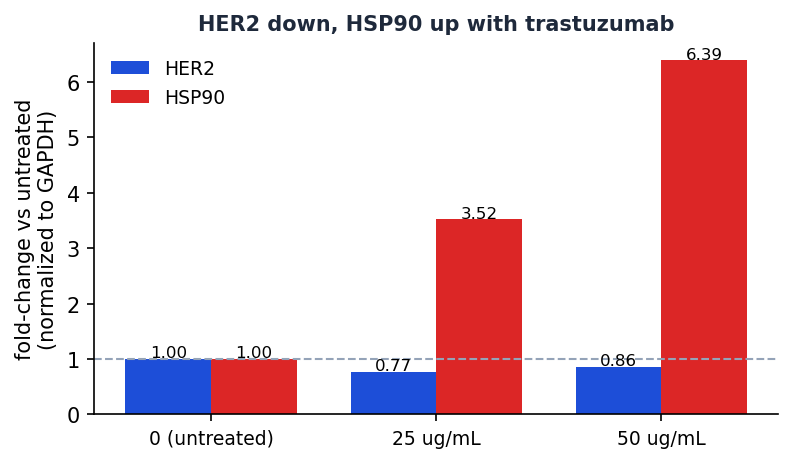
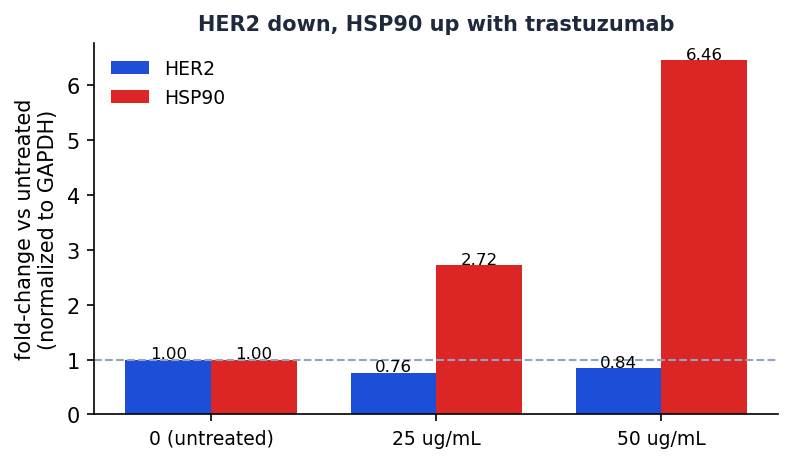
fix(western): align densitometry ROIs to bands
Band detection was placing fixed boxes at grid centers, so ROIs drifted
off the bands (visible misalignment). Rewrite: recenter each lane on its
band mass, then center a consistent-size ROI on each band's intensity
centroid within a search window (background from the window border). Boxes
now frame the actual bands across all lanes. Numbers unchanged in
substance (HER2 down ~0.84x, HSP90 up to ~6.5x at 50 ug/mL, n=1).

diff --git a/public/workbook/western/pipeline.py b/public/workbook/western/pipeline.py
@@ -9,7 +9,7 @@ import matplotlib
 matplotlib.use("Agg")
 import matplotlib.pyplot as plt
 from scipy.signal import find_peaks
-from scipy.ndimage import gaussian_filter1d
+from scipy.ndimage import gaussian_filter1d, label
 
 SRC = "/private/tmp/claude-501/-Users-quanho/35d39a2c-2df7-4460-b340-b3c28387140c/scratchpad/wb_source/blot.png"
 OUT = "/private/tmp/claude-501/-Users-quanho/35d39a2c-2df7-4460-b340-b3c28387140c/scratchpad/wb_out"
@@ -43,31 +43,55 @@ cpk = sorted(cpk, key=lambda x: -colproj[x])[:3]
 cpk = sorted([c+X0 for c in cpk])
 lanes = ["0 (untreated)", "25 ug/mL", "50 ug/mL"][:len(cpk)]
 spacing = int(np.median(np.diff(cpk))) if len(cpk) > 1 else int((X1-X0)*0.3)
-cw = int(spacing*0.42)  # wide enough to contain a full band
+# Generous SEARCH window (contains one full band, excludes neighbours); the drawn
+# box is then tightened onto the band itself so it aligns with the blot.
+sw = int(spacing*0.48)          # search half-width (x)
+sh = int(H*0.085)               # search half-height (y)
 
-def centroid_x(y, x):
-    """Snap the ROI x-center onto the band's intensity centroid within its lane window."""
-    y0,y1 = max(0,y-rh), min(H,y+rh); x0,x1 = max(X0,x-cw), min(X1,x+cw)
-    col = inv[y0:y1, x0:x1].sum(axis=0)
-    col = np.clip(col - np.median(col), 0, None)
-    if col.sum() == 0: return x
-    return int(x0 + (np.arange(len(col))*col).sum()/col.sum())
+def refine_lane(x):
+    """Recenter a lane on the actual band mass (bg-subtracted, across all rows)."""
+    x0, x1 = max(X0, x-sw), min(X1, x+sw)
+    prof = np.zeros(x1-x0)
+    for y in rpk:
+        w = inv[max(0, y-sh):min(H, y+sh), x0:x1]
+        prof += np.clip(w - np.median(w), 0, None).sum(axis=0)
+    if prof.sum() == 0:
+        return x
+    return int(x0 + (np.arange(len(prof))*prof).sum()/prof.sum())
 
-def integrated_density(y, x):
-    """Background-corrected integrated density over a band box centered on the band."""
-    y0,y1 = max(0,y-rh), min(H,y+rh); x0,x1 = max(0,x-cw), min(W,x+cw)
-    roi = inv[y0:y1, x0:x1]
-    # local background = median of thin strips just above and below the band, same lane
-    above = inv[max(0,y-rh-10):max(0,y-rh), x0:x1]; below = inv[min(H,y+rh):min(H,y+rh+10), x0:x1]
-    bg = np.median(np.concatenate([above.ravel(), below.ravel()])) if above.size+below.size else 0
-    return float(np.clip(roi - bg, 0, None).sum()), (x0,y0,x1,y1)
+cpk = [refine_lane(x) for x in cpk]
+
+bw = int(spacing*0.64)          # drawn box width (consistent across bands)
+bh = int(sh*1.7)                # drawn box height
+
+def band_box(y, x):
+    """Center a consistent-size ROI on the band's intensity centroid (so the box
+    aligns with the whole band, not just its darkest part) and return its
+    background-corrected integrated density."""
+    sy0, sy1 = max(0, y-sh), min(H, y+sh)
+    sx0, sx1 = max(X0, x-sw), min(X1, x+sw)
+    win = inv[sy0:sy1, sx0:sx1]
+    if win.size == 0:
+        return 0.0, (x-bw//2, y-bh//2, x+bw//2, y+bh//2)
+    border = np.concatenate([win[0, :], win[-1, :], win[:, 0], win[:, -1]])
+    bg = float(np.median(border))
+    sig = np.clip(win - bg, 0, None)
+    if sig.sum() > 0:
+        colw, roww = sig.sum(axis=0), sig.sum(axis=1)
+        cx = sx0 + (np.arange(len(colw))*colw).sum()/colw.sum()
+        cy = sy0 + (np.arange(len(roww))*roww).sum()/roww.sum()
+    else:
+        cx, cy = x, y
+    bx0, by0 = int(cx-bw/2), int(cy-bh/2)
+    bx1, by1 = bx0+bw, by0+bh
+    idv = float(np.clip(inv[max(0,by0):min(H,by1), max(0,bx0):min(W,bx1)] - bg, 0, None).sum())
+    return idv, (bx0, by0, bx1, by1)
 
 rows = []; boxes = []
 for pi, y in enumerate(rpk):
-    for li, x0c in enumerate(cpk):
-        x = centroid_x(y, x0c)
-        idv, box = integrated_density(y, x)
-        rows.append({"protein": proteins[pi], "lane": lanes[li], "raw_id": round(idv,0)})
+    for li, x in enumerate(cpk):
+        idv, box = band_box(y, x)
+        rows.append({"protein": proteins[pi], "lane": lanes[li], "raw_id": round(idv, 0)})
         boxes.append((box, proteins[pi], lanes[li]))
 
 # normalize each target to GAPDH in the same lane; fold-change vs untreated lane